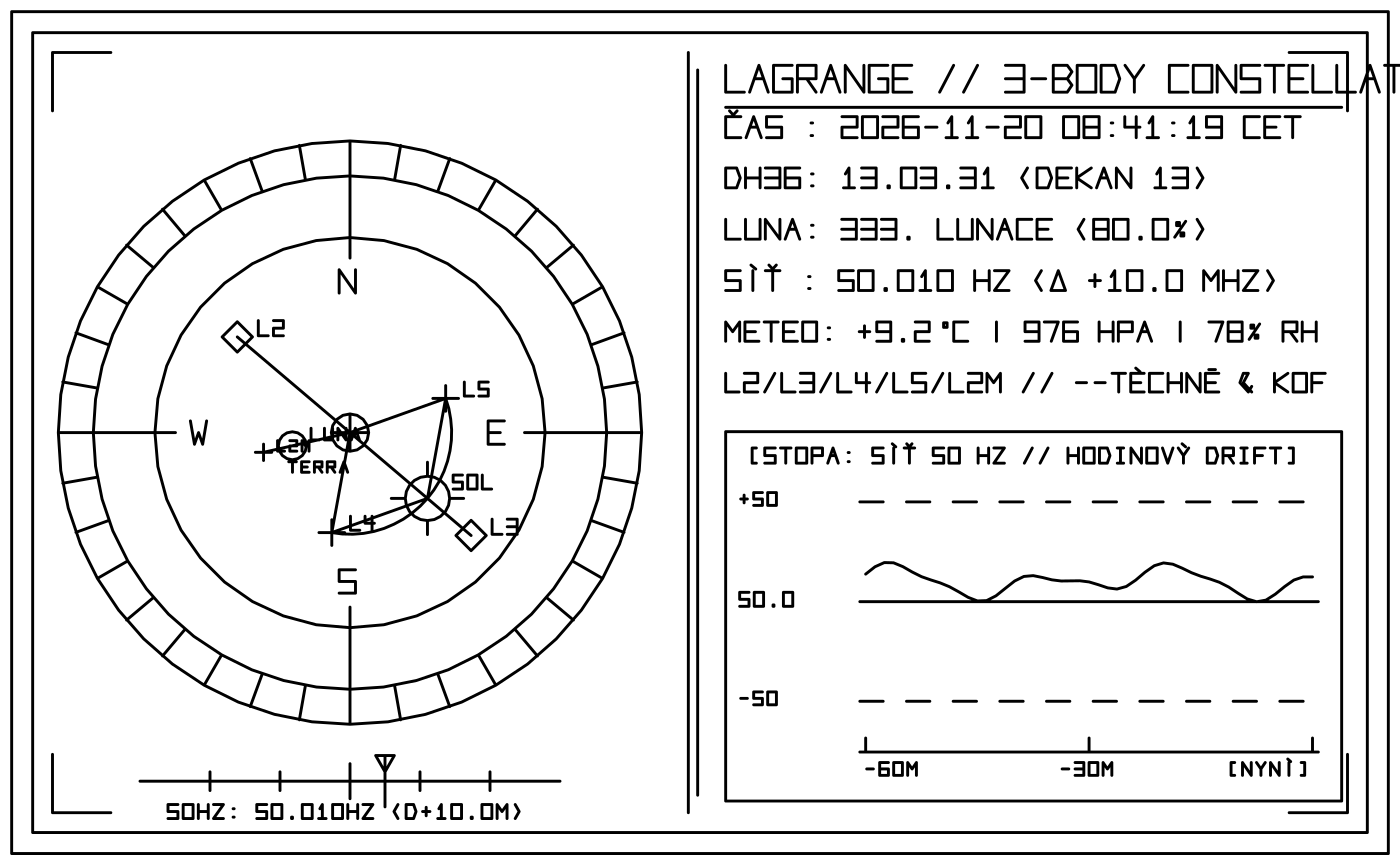
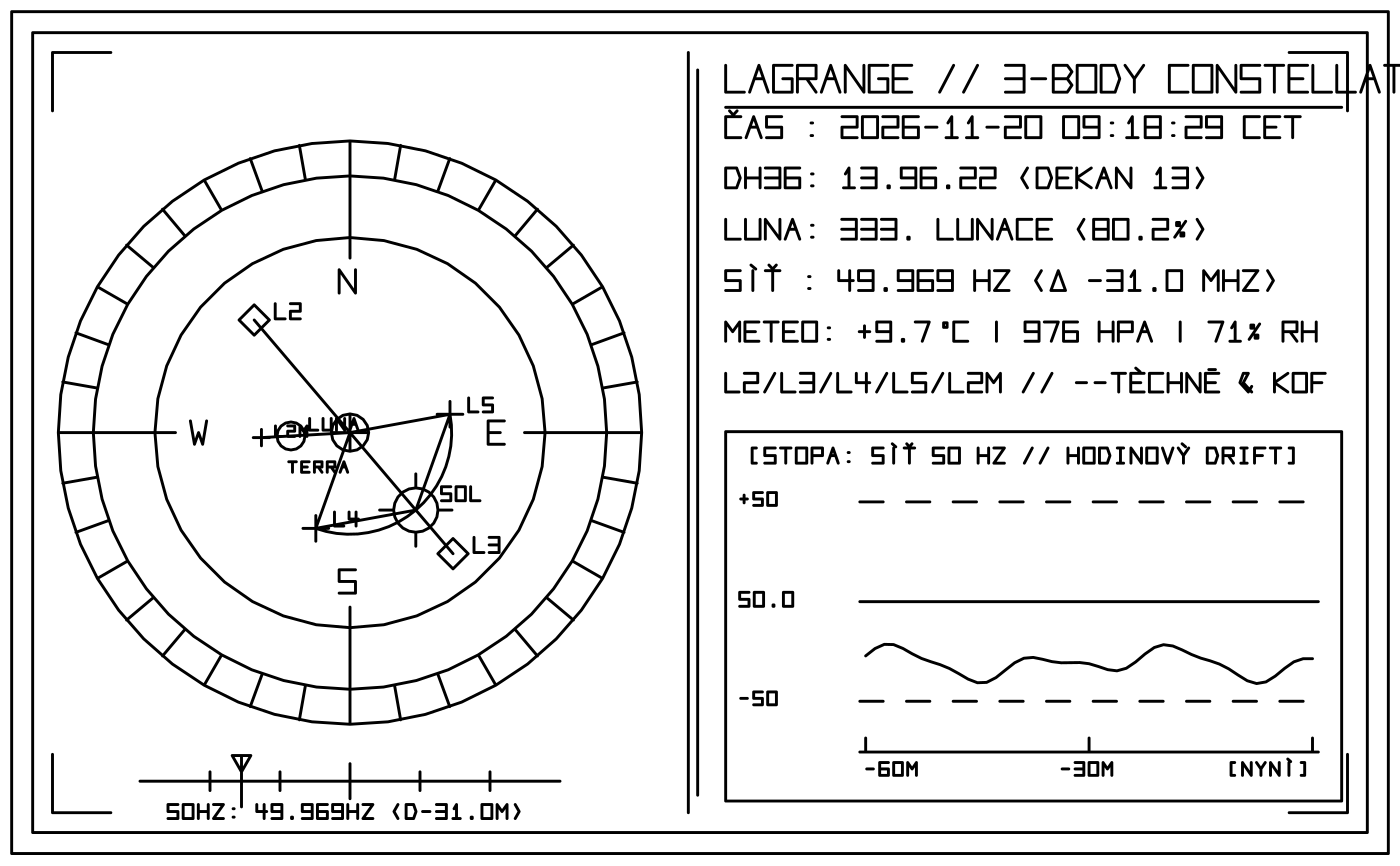
feat(stream): add rational cubic NURBS spline interpolation and 100x decan clockwork (24s)

diff --git a/lagrange_stream.py b/lagrange_stream.py
@@ -100,16 +100,17 @@ def harvest_weather():
 
 def load_config():
     default_cfg = {
-        "period_sec": 2400.0,  # 40 min = 1 DH
+        "period_sec": 24.0,    # 100x decan speedup = 24s per orbit (1 metric minute = 1 dm)
         "r0_mm": 50.0,         # 10 cm diameter
-        "step_interval_sec": 1.0,
-        "spiral_dr_per_orbit": -0.8,
+        "step_interval_sec": 0.5, # NURBS control point interval
+        "nurbs_substeps": 6,   # micro-steps along each NURBS segment
+        "spiral_dr_per_orbit": -0.4,
         "log_c": 5.0,
         "ampl_grid_max": 6.0,
         "lagrange_ampl": 5.0,
         "wind_ampl": 3.0,
         "temp_factor": 0.15,
-        "stepper_delay": 300,
+        "stepper_delay": 200,
         "enabled": True,
         "dry_run": False
     }
@@ -149,6 +150,40 @@ def move_to(target_x, target_y):
     send_serial(cmd)
     current_x = target_x
     current_y = target_y
+
+def evaluate_nurbs_segment(p0, p1, p2, p3, w0=1.0, w1=1.0, w2=1.0, w3=1.0, steps=8):
+    """
+    Evaluates a uniform cubic Rational B-Spline (NURBS) segment between control points
+    p1 and p2 using homogeneous coordinates with weights w0..w3.
+    Returns a list of (x, y) coordinates.
+    """
+    pts = []
+    # Homogeneous control points (wx, wy, w)
+    h = [
+        (p0[0] * w0, p0[1] * w0, w0),
+        (p1[0] * w1, p1[1] * w1, w1),
+        (p2[0] * w2, p2[1] * w2, w2),
+        (p3[0] * w3, p3[1] * w3, w3)
+    ]
+    
+    for s in range(1, steps + 1):
+        u = s / float(steps)
+        u2 = u * u
+        u3 = u2 * u
+        b0 = (-u3 + 3.0 * u2 - 3.0 * u + 1.0) / 6.0
+        b1 = (3.0 * u3 - 6.0 * u2 + 4.0) / 6.0
+        b2 = (-3.0 * u3 + 3.0 * u2 + 3.0 * u + 1.0) / 6.0
+        b3 = u3 / 6.0
+
+        hx = b0 * h[0][0] + b1 * h[1][0] + b2 * h[2][0] + b3 * h[3][0]
+        hy = b0 * h[0][1] + b1 * h[1][1] + b2 * h[2][1] + b3 * h[3][1]
+        hw = b0 * h[0][2] + b1 * h[1][2] + b2 * h[2][2] + b3 * h[3][2]
+        
+        if hw != 0.0:
+            pts.append((hx / hw, hy / hw))
+        else:
+            pts.append((hx, hy))
+    return pts
 
 def sig_handler(signum, frame):
     global running
@@ -247,10 +282,27 @@ def main():
         print(f"[*] Režim simulace / DRY-RUN (Port {SERIAL_PORT} není fyzicky připojen).")
 
     start_time = time.time()
-    next_tick = start_time
+    ctrl_dt = max(0.15, cfg.get("step_interval_sec", 0.5))
+    history_pts = []
+    history_w = []
 
-    # Move to initial spirograph start point
-    init_x, init_y, _ = compute_spiro_point(0.0, cfg, {"drift_mhz": 0.0}, {"temp_c": 10.0, "rh_pct": 75.0, "wind_kmh": 15.0})
+    # Pre-populate 4 initial NURBS control points
+    for step_i in range(-3, 1):
+        t_sim = step_i * ctrl_dt
+        g = harvest_grid()
+        w_env = harvest_weather()
+        px, py, pr = compute_spiro_point(t_sim, cfg, g, w_env)
+        pw = 1.0 + abs(g["drift_mhz"]) / 50.0 + (w_env["wind_kmh"] / 80.0)
+        history_pts.append((px, py))
+        history_w.append(pw)
+
+    # Initial start position from NURBS evaluation
+    init_pts = evaluate_nurbs_segment(
+        history_pts[0], history_pts[1], history_pts[2], history_pts[3],
+        history_w[0], history_w[1], history_w[2], history_w[3],
+        steps=2
+    )
+    init_x, init_y = init_pts[0]
     print(f"[*] Pomalý nájezd na startovní pozici ciferníku: ({init_x:.2f}, {init_y:.2f}) mm...")
     move_to(init_x, init_y)
     time.sleep(0.5)
@@ -258,23 +310,45 @@ def main():
         send_serial("P0") # Lower pen to paper
         time.sleep(0.3)
 
-    print(f"[✓] Tisk v reálném čase zahájen. 1 oběh = {cfg['period_sec']:.0f} s ({cfg['period_sec']/60.0:.1f} min).")
+    print(f"[✓] Tisk v reálném čase zahájen (NURBS interpolace). 1 oběh = {cfg['period_sec']:.1f} s ({cfg['period_sec']/60.0:.2f} min).")
 
     while running:
-        loop_start = time.time()
         cfg = load_config()
         if not cfg.get("enabled", True):
             time.sleep(1.0)
             continue
 
+        ctrl_dt = max(0.15, cfg.get("step_interval_sec", 0.5))
         elapsed = time.time() - start_time
         grid = harvest_grid()
         weather = harvest_weather()
 
-        x, y, r = compute_spiro_point(elapsed, cfg, grid, weather)
+        # Generate next control point
+        px, py, pr = compute_spiro_point(elapsed + ctrl_dt, cfg, grid, weather)
+        pw = 1.0 + abs(grid["drift_mhz"]) / 50.0 + (weather["wind_kmh"] / 80.0)
+        history_pts.append((px, py))
+        history_w.append(pw)
+        if len(history_pts) > 4:
+            history_pts.pop(0)
+            history_w.pop(0)
 
-        if not is_dry:
-            move_to(x, y)
+        # Interpolate smooth NURBS curve between history_pts[1] and history_pts[2]
+        nurbs_substeps = max(2, cfg.get("nurbs_substeps", 6))
+        interpolated = evaluate_nurbs_segment(
+            history_pts[0], history_pts[1], history_pts[2], history_pts[3],
+            history_w[0], history_w[1], history_w[2], history_w[3],
+            steps=nurbs_substeps
+        )
+
+        substep_delay = ctrl_dt / float(len(interpolated))
+        last_mx, last_my = current_x, current_y
+        for mx, my in interpolated:
+            if not running:
+                break
+            if not is_dry:
+                move_to(mx, my)
+            last_mx, last_my = mx, my
+            time.sleep(max(0.005, substep_delay * 0.75))
 
         # Update live status in SHM
         orbit_idx = elapsed / cfg["period_sec"]
@@ -284,10 +358,11 @@ def main():
             "orbit_number": int(orbit_idx),
             "orbit_progress_pct": round((orbit_idx - int(orbit_idx)) * 100.0, 1),
             "period_sec": cfg["period_sec"],
-            "period_desc": f"{cfg['period_sec']/60.0:.1f} min (1 DH)",
-            "pos_mm": {"x": round(x, 2), "y": round(y, 2), "r": round(r, 2)},
+            "period_desc": f"{cfg['period_sec']:.1f} s (100x dekan)",
+            "pos_mm": {"x": round(last_mx, 2), "y": round(last_my, 2), "r": round(math.hypot(last_mx, last_my), 2)},
             "grid": grid,
             "weather": weather,
+            "nurbs_interpolation": True,
             "pen_down": True
         }
         try:
@@ -295,15 +370,6 @@ def main():
                 json.dump(status, f, indent=2)
         except Exception:
             pass
-
-        # Precise clockwork pace
-        interval = max(0.2, cfg.get("step_interval_sec", 1.0))
-        next_tick += interval
-        sleep_dur = next_tick - time.time()
-        if sleep_dur > 0:
-            time.sleep(sleep_dur)
-        else:
-            next_tick = time.time()
 
 def compute_spiro_point(t, cfg, grid, weather):
     T0 = float(cfg.get("period_sec", 2400.0))
